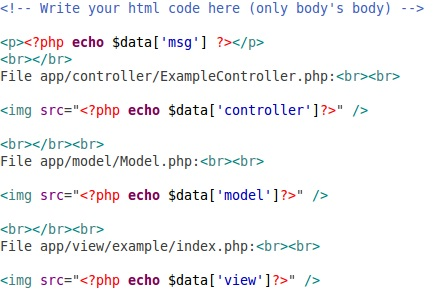
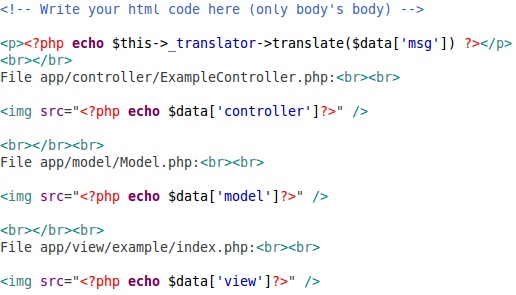
version 1.2

diff --git a/app/libs/Translator.php b/app/libs/Translator.php
@@ -1,0 +1,37 @@
+<?php
+
+/**
+ * This class is used to translate all application strings and texts.
+ * 
+ * @author Michele Stolfa
+ * @version 1.0
+ */
+class Translator {
+	
+	/**
+	 * An associative array contains all strings.
+	 * 
+	 * @var array Associative array in this format: array('id string' => 'translation string')
+	 */
+	private $dictionary;
+	
+	/**
+	 * Loads dictionary for the given language.
+	 * 
+	 * @param string $local Local language by which translate strings. Default is english
+	 */
+	public function __construct($local = 'en_EN') {
+		$file = LANG_PATH . $local . '.php';
+		include $file;
+		$this->dictionary = $dictionary;
+	}
+		
+	/**
+	 * Translate a single string or text.
+	 * 
+	 * @param string/integer $id_string String identificator
+	 */
+	public function translate($id_string) {
+		return $this->dictionary[$id_string];
+	}
+}

diff --git a/app/libs/View.php b/app/libs/View.php
@@ -4,9 +4,16 @@
  * This class represents a view, and it is used to make any view.
  * 
  * @author Michele Stolfa
- * @version 1.0
+ * @version 1.1
  */
 class View {
+	
+	/**
+	 * An object of Translator class.
+	 * 
+	 * @var Translator The current translator
+	 */
+	private $_translator;
 
 	/**
 	 * Contains the javascript files needed for all views.
@@ -23,9 +30,10 @@ class View {
 	private $_css;
 	
 	/**
-	 * View constructor. Initializes javascript and css files for all views.
+	 * View constructor. Initializes javascript and css files for all views, and the translator for strings.
 	 */
 	public function __construct() {
+		$this->_translator = new Translator(Session::get('local'));
 		$this->_js = array();
 		$this->_css = array();
 	}

diff --git a/app/controllers/LocalController.php b/app/controllers/LocalController.php
@@ -1,0 +1,27 @@
+<?php
+
+/**
+ * This class is used to change the local language. 
+ * 
+ * @author Michele Stolfa
+ * @version 1.0
+ */
+class LocalController extends Controller {
+	
+	/**
+	 * Construct a LocalController
+	 */
+	public function __construct() {
+		parent::__construct();
+	}
+	
+	/**
+	 * Change the local language.
+	 * 
+	 * @param string $newLocal New local language, for example it_IT or en_EN
+	 */
+	public function change($newLocal) {
+		Session::set('local', $newLocal);
+		header("Location: " . $_GET['request']);
+	}
+}

diff --git a/app/models/Example.php b/app/models/Example.php
@@ -4,7 +4,7 @@
  * This class is a template that help building new model.
  * 
  * @author Michele Stolfa
- * @version 1.0
+ * @version 1.1
  */
 class Example extends Model {
 	
@@ -55,7 +55,7 @@ class Example extends Model {
 		//Query database using $this->_dao variable
 		
 		return array(
-				'msg' => "This is the example page.",
+				'msg' => "example.welcome_text",
 				'controller' => IMAGE_PATH . "ExampleController.jpg",
 				'model' => IMAGE_PATH . "ExampleModel.jpg",
 				'view' => IMAGE_PATH . "ExampleView.jpg"

diff --git a/config.php b/config.php
@@ -11,6 +11,7 @@ define('IMAGE_PATH', URL . 'assets/img/');
 define('ICON_PATH', URL . 'assets/ico/');
 define('CSS_PATH', URL . 'assets/css/');
 define('JS_PATH', URL . 'assets/js/');
+define('LANG_PATH', 'app/lang/');
 
 define('DB_TYPE', '');
 define('DB_HOST', '');
@@ -30,6 +31,8 @@ define('SINGLE_QUOTE', "'");
 
 define('DOUBLE_SLASH', "\\\\");
 define('SINGLE_SLASH', "\\");
+
+define('DEFAULT_LANGUAGE', 'en_EN');
 
 /**
  * Push a new "$key => $value" in an existing associative array.

diff --git a/app/libs/Bootstrap.php b/app/libs/Bootstrap.php
@@ -5,7 +5,7 @@
  * Requests must be expressed in the format "controllerName/methodName/optionalParameters".
  * 
  * @author Michele Stolfa
- * @version 1.1
+ * @version 1.2
  */
 class Bootstrap {
 	
@@ -31,6 +31,10 @@ class Bootstrap {
  	 * In this case, the application's index page is displayed to the user.
 	 */
 	public function __construct() {
+		
+		Session::init();
+		if (!Session::get('local'))
+			Session::set('local', DEFAULT_LANGUAGE);
 		
 		$this->getUrl();
 		

diff --git a/app/views/header.php b/app/views/header.php
@@ -17,5 +17,9 @@ if (isset($this->_css)) {
 </head>
 
 <body>
+	<a href="<?php echo URL . 'local/change/it_IT/?request=' . $_SERVER['REQUEST_URI'] ?>">ITA</a> <!-- Change local language in Italian -->
+	<a href="<?php echo URL . 'local/change/en_EN/?request=' . $_SERVER['REQUEST_URI'] ?>">ENG</a> <!-- Change local language in English -->
 	
-	<div>PHP - MVC Framework v1.1</div>
+	<br><br>
+	
+	<div>PHP - MVC Framework v1.2</div>

diff --git a/app/lang/it_IT.php b/app/lang/it_IT.php
@@ -1,0 +1,11 @@
+<?php
+
+/*
+ * Dizionario italiano.
+ */
+
+$dictionary = array(
+		'index.welcome_text' => 'Questa &egrave; la pagina iniziale.',
+		'index.example_text' => "Visualizza la pagina di <a href='" . URL . "example' >esempio</a>.",
+		'example.welcome_text' => 'Questa &egrave; la pagina di esempio.'
+);

diff --git a/app/views/index/index.php b/app/views/index/index.php
@@ -1,3 +1,3 @@
 <!-- This is the index page view -->
-<p>This is the index page.</p>
-<p>View the <a href="<?php echo URL . "example" ?>" >example</a> page.</p>
+<p><?php echo $this->_translator->translate('index.welcome_text'); ?></p>
+<p><?php echo $this->_translator->translate('index.example_text'); ?></p>

diff --git a/app/lang/en_EN.php b/app/lang/en_EN.php
@@ -1,0 +1,11 @@
+<?php
+
+/*
+ * English dictionary.
+ */
+
+$dictionary = array(
+		'index.welcome_text' => 'This is the index page.',
+		'index.example_text' => "View the <a href='" . URL . "example'>example</a> page.",
+		'example.welcome_text' => 'This is the example page.'
+);

diff --git a/app/views/example/index.php b/app/views/example/index.php
@@ -1,6 +1,6 @@
 <!-- Write your html code here (only body's body) -->
 
-<p><?php echo $data['msg'] ?></p>
+<p><?php echo $this->_translator->translate($data['msg']) ?></p>
 <br></br>
 File app/controller/ExampleController.php:<br><br>
 
